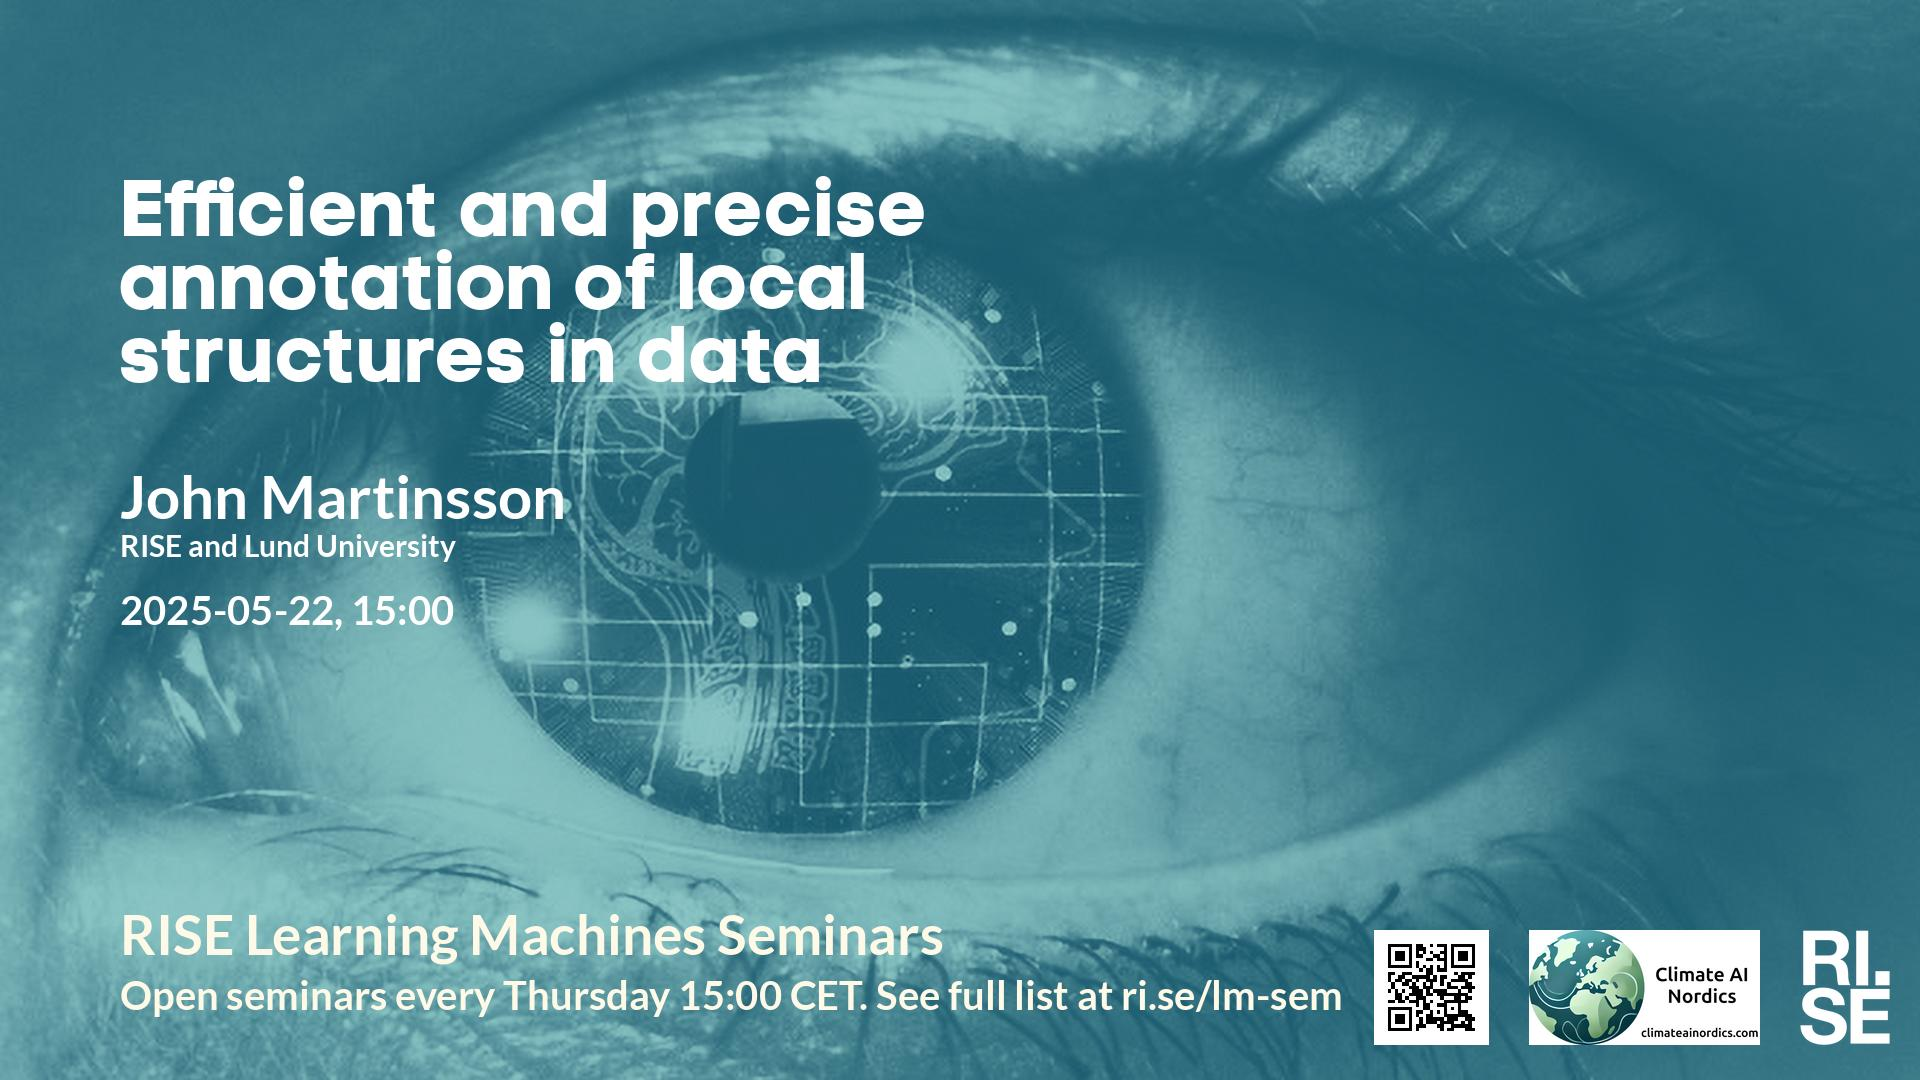
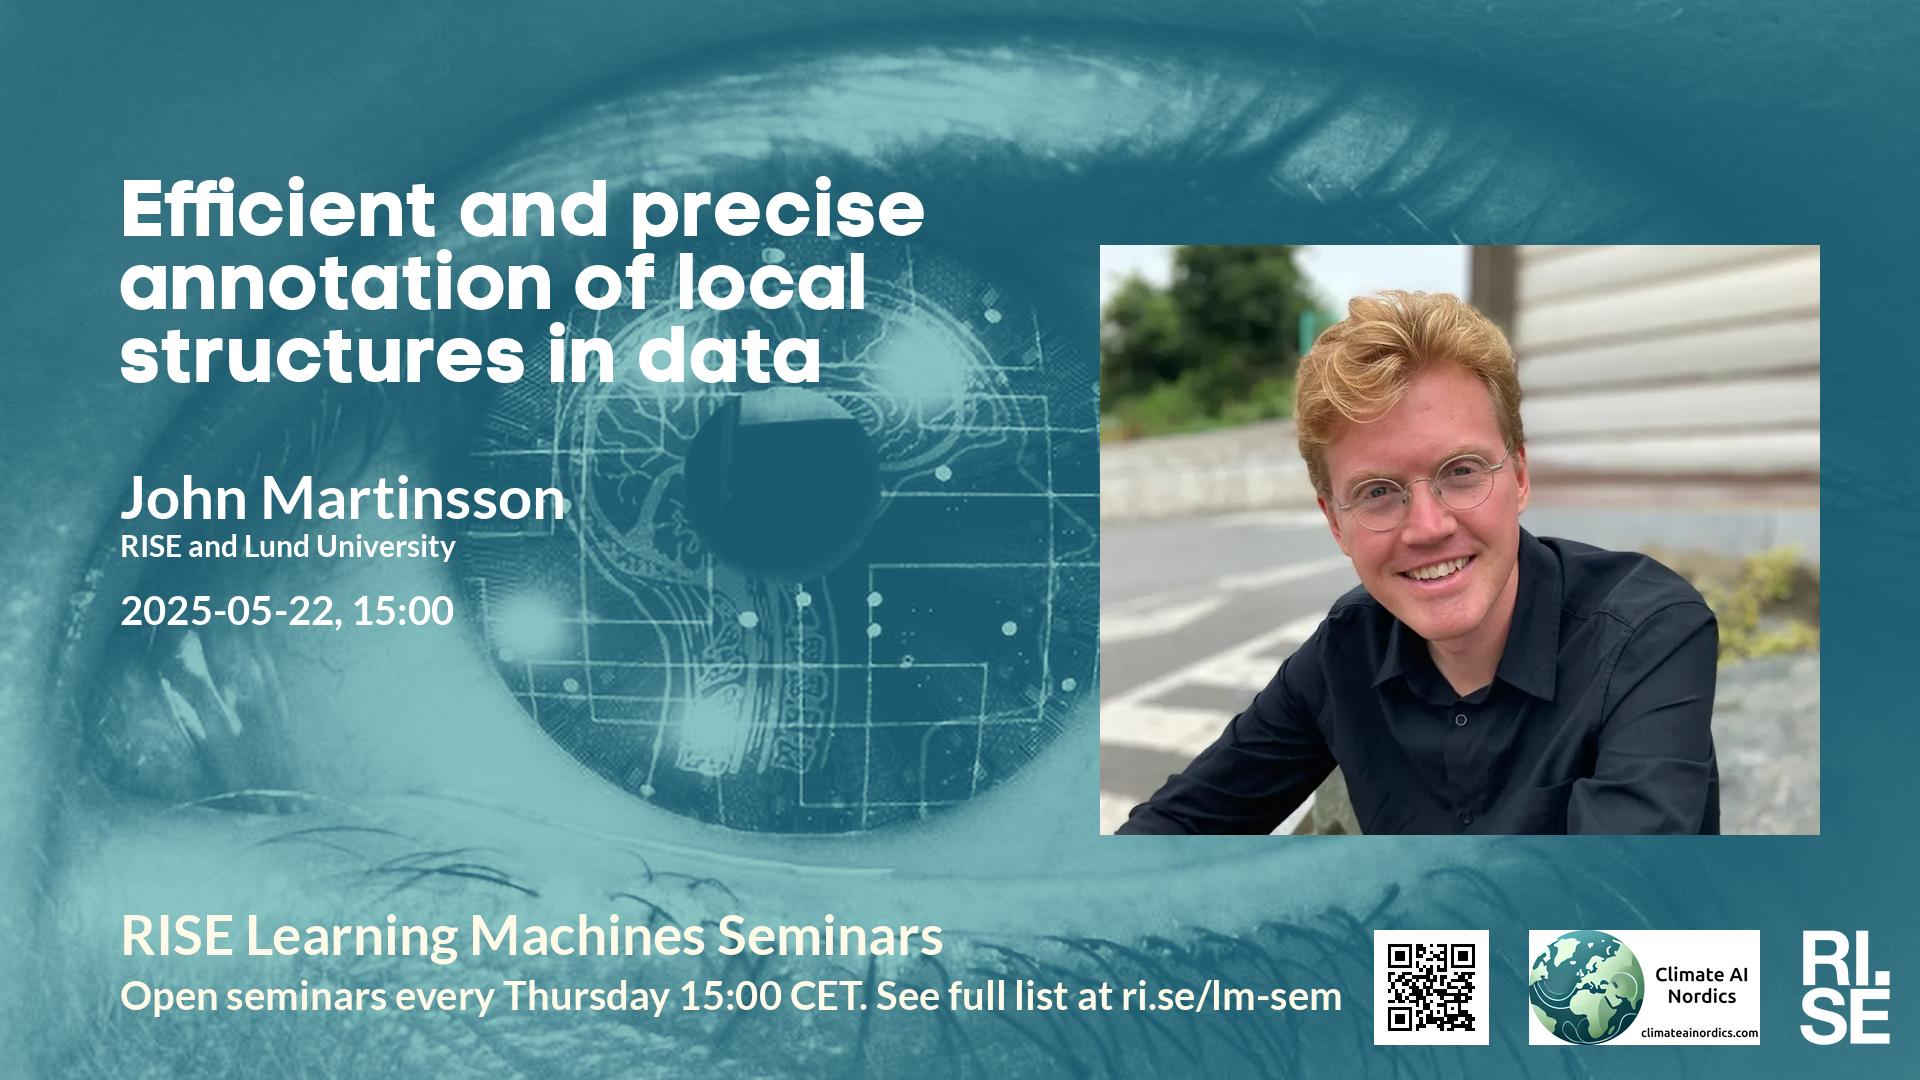
Updated plan on web site.

Changed region(s): [[0.5625, 0.2139, 0.9688, 0.7944]]

diff --git a/lm/2025.md b/lm/2025.md
@@ -27,7 +27,7 @@ table {border-collapse: collapse;}
 | <span style="color:red"> 2025-05-01 </span> | <span style="color:red"> International Workers' Day </span> | <span style="color:red">  </span> | <span style="color:red">  </span> | <span style="color:red">  </span> | <span style="color:red">  </span> | <span style="color:red"> CANCELLED </span> |
 |  2025-05-08  |  [Ghjulia Sialelli, ETH Zurich](2025-05-08.md)  |  [photo](2025-05-08-photo-ghjulia-sialelli.jpg)  |  [social media ](2025-05-08-social-media-ghjulia-sialelli.jpg)  |  [meeting backdrop ](2025-05-08-meeting-backdrop-ghjulia-sialelli.jpg)  |  [youtube thumbnail ](2025-05-08-youtube-thumbnail-ghjulia-sialelli.jpg)  |  STABP  |
 |  2025-05-15  |  [Peter Dueben, European Centre for Medium-Range Weather Forecasts](2025-05-15.md)  |  [photo](2025-05-15-photo-peter-dueben.jpg)  |  [social media ](2025-05-15-social-media-peter-dueben.jpg)  |  [meeting backdrop ](2025-05-15-meeting-backdrop-peter-dueben.jpg)  |  [youtube thumbnail ](2025-05-15-youtube-thumbnail-peter-dueben.jpg)  |  S~~TAB~~P  |
-|  2025-05-22  |  [John Martinsson, RISE and Lund University](2025-05-22.md)  |    |  [social media ](2025-05-22-social-media-john-martinsson.jpg)  |  [meeting backdrop ](2025-05-22-meeting-backdrop-john-martinsson.jpg)  |  [youtube thumbnail ](2025-05-22-youtube-thumbnail-john-martinsson.jpg)  |  STAB~~P~~  |
+|  2025-05-22  |  [John Martinsson, RISE and Lund University](2025-05-22.md)  |  [photo](2025-05-22-photo-john-martinsson.png)  |  [social media ](2025-05-22-social-media-john-martinsson.jpg)  |  [meeting backdrop ](2025-05-22-meeting-backdrop-john-martinsson.jpg)  |  [youtube thumbnail ](2025-05-22-youtube-thumbnail-john-martinsson.jpg)  |  STABP  |
 | <span style="color:red"> 2025-05-29 </span> | <span style="color:red"> Ascension Day  </span> | <span style="color:red">  </span> | <span style="color:red">  </span> | <span style="color:red">  </span> | <span style="color:red">  </span> | <span style="color:red"> CANCELLED </span> |
 | <span style="color:red"> 2025-06-05 </span> | <span style="color:red"> No Seminar </span> | <span style="color:red">  </span> | <span style="color:red">  </span> | <span style="color:red">  </span> | <span style="color:red">  </span> | <span style="color:red"> CANCELLED </span> |
 | <span style="color:purple"> 2025-06-12 </span> | <span style="color:purple"> *Up for grabs!!!* </span> | <span style="color:purple">  </span> | <span style="color:purple">  </span> | <span style="color:purple">  </span> | <span style="color:purple">  </span> | <span style="color:purple"> ~~STABP~~ </span> |

diff --git a/lm/index.md b/lm/index.md
@@ -27,7 +27,7 @@ table {border-collapse: collapse;}
 | <span style="color:red"> 2025-05-01 </span> | <span style="color:red"> International Workers' Day </span> | <span style="color:red">  </span> | <span style="color:red">  </span> | <span style="color:red">  </span> | <span style="color:red">  </span> | <span style="color:red"> CANCELLED </span> |
 |  2025-05-08  |  [Ghjulia Sialelli, ETH Zurich](2025-05-08.md)  |  [photo](2025-05-08-photo-ghjulia-sialelli.jpg)  |  [social media ](2025-05-08-social-media-ghjulia-sialelli.jpg)  |  [meeting backdrop ](2025-05-08-meeting-backdrop-ghjulia-sialelli.jpg)  |  [youtube thumbnail ](2025-05-08-youtube-thumbnail-ghjulia-sialelli.jpg)  |  STABP  |
 |  2025-05-15  |  [Peter Dueben, European Centre for Medium-Range Weather Forecasts](2025-05-15.md)  |  [photo](2025-05-15-photo-peter-dueben.jpg)  |  [social media ](2025-05-15-social-media-peter-dueben.jpg)  |  [meeting backdrop ](2025-05-15-meeting-backdrop-peter-dueben.jpg)  |  [youtube thumbnail ](2025-05-15-youtube-thumbnail-peter-dueben.jpg)  |  S~~TAB~~P  |
-|  2025-05-22  |  [John Martinsson, RISE and Lund University](2025-05-22.md)  |    |  [social media ](2025-05-22-social-media-john-martinsson.jpg)  |  [meeting backdrop ](2025-05-22-meeting-backdrop-john-martinsson.jpg)  |  [youtube thumbnail ](2025-05-22-youtube-thumbnail-john-martinsson.jpg)  |  STAB~~P~~  |
+|  2025-05-22  |  [John Martinsson, RISE and Lund University](2025-05-22.md)  |  [photo](2025-05-22-photo-john-martinsson.png)  |  [social media ](2025-05-22-social-media-john-martinsson.jpg)  |  [meeting backdrop ](2025-05-22-meeting-backdrop-john-martinsson.jpg)  |  [youtube thumbnail ](2025-05-22-youtube-thumbnail-john-martinsson.jpg)  |  STABP  |
 | <span style="color:red"> 2025-05-29 </span> | <span style="color:red"> Ascension Day  </span> | <span style="color:red">  </span> | <span style="color:red">  </span> | <span style="color:red">  </span> | <span style="color:red">  </span> | <span style="color:red"> CANCELLED </span> |
 | <span style="color:red"> 2025-06-05 </span> | <span style="color:red"> No Seminar </span> | <span style="color:red">  </span> | <span style="color:red">  </span> | <span style="color:red">  </span> | <span style="color:red">  </span> | <span style="color:red"> CANCELLED </span> |
 | <span style="color:purple"> 2025-06-12 </span> | <span style="color:purple"> *Up for grabs!!!* </span> | <span style="color:purple">  </span> | <span style="color:purple">  </span> | <span style="color:purple">  </span> | <span style="color:purple">  </span> | <span style="color:purple"> ~~STABP~~ </span> |
